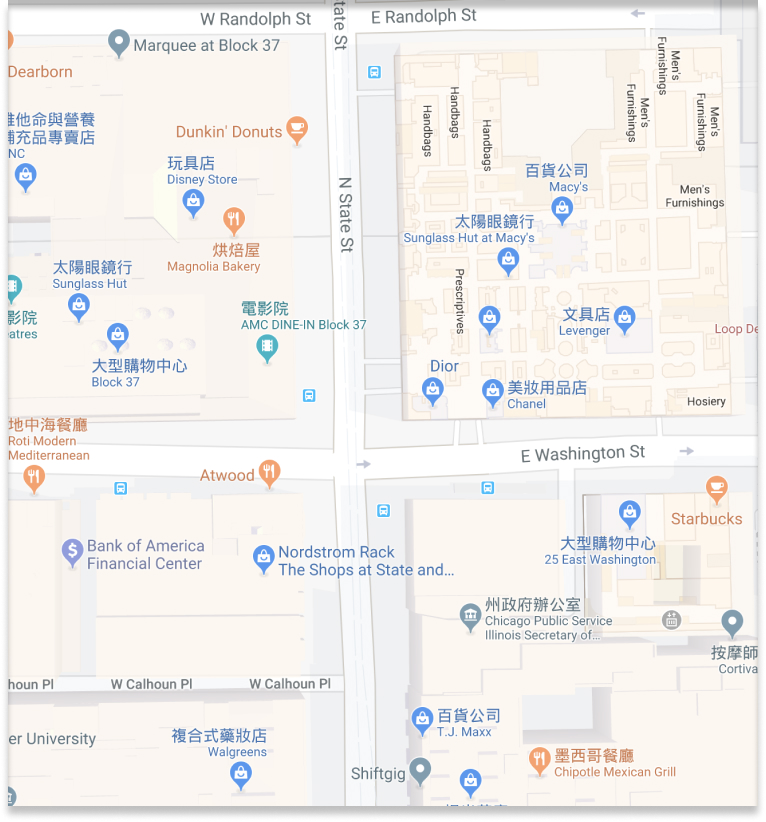
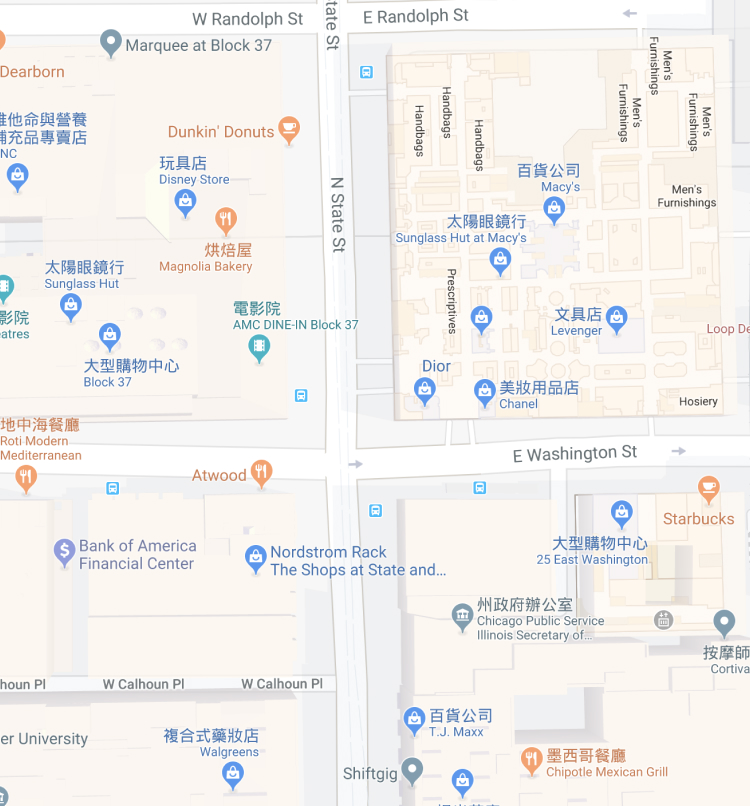
version1

diff --git a/index.html b/index.html
@@ -2,6 +2,7 @@
 <html lang="en" dir="ltr">
   <head>
     <meta charset="utf-8">
+    <meta name="viewport" content="width=device-width, initial-scale=1">
     <title>Frontend Challenge</title>
     <link rel="stylesheet" href="css/reset.css">
     <link rel="stylesheet" href="css/style.css">
@@ -12,56 +13,114 @@
       <header>
         <div class="statusbar"></div>
         <nav>
-          <ul>
-          <li class="leftarrow"><i class="fas fa-chevron-left"></i></li>
-          </ul>
+            <i class="fas fa-chevron-left"></i>
           <h1>Washington and State</h1>
         </nav>
       </header>
 
     <section class="map">
-      </section>
+    </section>
 
     <section class="buslist">
       <h2>Eastbound</h2>
 
       <ul class="row">
-        <li class="inline busnumber">60</li>
-        <li class="inline destination">
+        <li class="busnumber">60</li>
+        <li class="destination">
         <p class="block bold">Randolph/Harbor Dr</p>
         <p class="block frequency">Every 20 min</p>
         </li>
-        <li class="inline time">6 min</li>
-          <li class="inline icon">
+        <li class="time">6 min</li>
           <i class="fas fa-chevron-right"></i>
-          </li>
+      </ul>
 
-        <li class="inline busnumber">124</li>
-        <li class="inline destination">
+      <ul class="row">
+        <li class="busnumber">124</li>
+        <li class="destination">
         <p class="block bold">Navy Pier</p>
         <p class="block frequency">Every 10 min</p>
         </li>
-        <li class="inline time">8 min</li>
-          <li class="inline icon">
+        <li class="time">8 min</li>
           <i class="fas fa-chevron-right"></i>
-          </li>
-          <div class="line"></div>
       </ul>
 
-      <h2>Northbound</h2>
+      <h2 class="borderline">Northbound</h2>
 
       <ul class="row">
-        <li class="inline busnumber">151</li>
-        <li class="inline destination">
+        <li class="busnumber">151</li>
+        <li class="destination">
         <p class="block bold">Devon/Clark</p>
         <p class="block frequency">Every 16 min</p>
         </li>
-        <li class="inline time">9 min</li>
-          <li class="inline icon">
+        <li class="time">9 min</li>
           <i class="fas fa-chevron-right"></i>
-          </li>
       </ul>
 
+      <h2 class="borderline">Southbound</h2>
+
+      <ul class="row">
+        <li class="busnumber">J14</li>
+        <li class="destination">
+        <p class="block bold">103rd/Stony Island</p>
+        <p class="block frequency">Every 15 min</p>
+        </li>
+        <li class="time">8 min</li>
+          <i class="fas fa-chevron-right"></i>
+      </ul>
+
+      <ul class="row">
+        <li class="busnumber">124</li>
+        <li class="destination">
+        <p class="block bold">Navy Pier</p>
+        <p class="block frequency">Every 10 min</p>
+        </li>
+        <li class="time">8 min</li>
+          <i class="fas fa-chevron-right"></i>
+      </ul>
+
+      <h2 class="borderline">Reroute</h2>
+
+      <ul class="row">
+        <li class="busnumber">4X</li>
+        <li class="destination">
+        <p class="block bold">Jackson Park Express</p>
+        <p class="block frequency">N/A</p>
+        </li>
+        <li class="time">9 min</li>
+          <i class="fas fa-chevron-right"></i>
+      </ul>
+
+      <h2 class="borderline">Out of service</h2>
+
+      <ul class="row">
+        <li class="busnumber">4</li>
+        <li class="destination">
+        <p class="block bold">Cottage Grove</p>
+        <p class="block frequency">Resumes 12:10 am</p>
+        </li>
+        <li class="time">N/A</li>
+          <i class="fas fa-chevron-right"></i>
+      </ul>
+
+      <ul class="row">
+        <li class="busnumber">20</li>
+        <li class="destination">
+        <p class="block bold">Madison</p>
+        <p class="block frequency">Resumes 12:10 am</p>
+        </li>
+        <li class="time">N/A</li>
+          <i class="fas fa-chevron-right"></i>
+      </ul>
+
+      <ul class="row">
+        <li class="busnumber">157</li>
+        <li class="destination">
+        <p class="block bold">Streeterville/Taylor</p>
+        <p class="block frequency">Resumes 6:00 am</p>
+        </li>
+        <li class="time">N/A</li>
+          <i class="fas fa-chevron-right"></i>
+      </ul>
 
     </section>
     </section>

diff --git a/css/style.css b/css/style.css
@@ -15,14 +15,11 @@ body {
 }
 
 .statusbar {
-  background-image: url("../images/Base.jpg");
-  background-size: contain;
+  background-image: url("../images/statusbar.png");
+  background-size: cover;
+  position: center fixed;
   width: 100%;
-  height: 20px;
-}
-
-.inline {
-  display: inline-block;
+  height: 13px;
 }
 
 .block {
@@ -31,10 +28,16 @@ body {
 
 nav {
   background-color: green;
-  margin: 0 auto;
-  padding: 15px 0 15px 15px;
   position: center fixed;
   width: 100%;
+  height: 45px;
+}
+
+.fa-chevron-left {
+  padding: 15px 0 15px 15px;
+  color: white;
+  font-size: 1em;
+  float: left;
 }
 
 h1 {
@@ -42,57 +45,65 @@ h1 {
   color: white;
   font-size: 1.1em;
   text-align: center;
-}
-
-.leftarrow {
-  color: white;
-  font-size: 1.1em;
-  float: left;
+  padding: 15px 25px 0 0;
 }
 
 .map {
   background-image: url("../images/map.jpg");
-  background-size: contain;
+  background-size: cover;
+  display: block;
+  float: left;
+  box-shadow: 0 3px 4px lightgrey;
   width: 100%;
   height: 400px;
 }
 
 .buslist {
-  margin: 0 auto;
   width: 375px;
   background-color: white;
   padding: 2px;
 }
 
 .row {
-  padding: 10px;
+  padding: 0 3px;
   width: 100%;
+  height: 50px;
+  clear: both;
+}
+
+.row:hover {
+  background-color: lightgrey;
 }
 
 h2 {
   font-weight: bolder;
+  width: 100%;
   font-size: 1em;
-  text-align: left;
-  padding: 5px 10px;
+  float: left;
+  padding: 20px 0 5px 10px;
 }
 
 .busnumber {
   font-size: 1em;
-  font-weight: 500;
-  padding: 10px 0;
-  width: 15%;
+  font-weight: bold;
+  padding: 17px 10px 10px 17px;
   text-align: center;
+  width: 10%;
   float: left;
 }
 
 .destination {
   width: 60%;
-  padding: 5px 10px;
-  text-align: left;
+  padding: 7px 0 7px 25px;
+  float: left;
+}
+
+p {
+  margin: 2px 0;
 }
 
 .bold {
-  font-weight: bolder;
+  font-weight: 500;
   padding: 2px 0;
   font-size: 0.9em;
 }
@@ -101,24 +112,113 @@ h2 {
   font-weight: lighter;
   font-style: italic;
   font-size: 0.7em;
-  color: darkgrey;
+  color: grey;
 }
 
 .time {
   font-weight: bold;
-  padding: 5px 5px 5px 0;
+  padding: 17px 0 10px 30px;
   font-size: 0.9em;
+  width: 20%;
+  float: left;
+  color: green;
+  text-shadow: 2px 1px 1px lightgrey;
+}
+
+.fa-chevron-right {
+  padding: 19px 10px 10px 10px;
   width: 10%;
-  text-align: right;
-}
-
-.icon {
-  padding: 10px 0;
   font-size: 0.8em;
+  color: darkgreen;
   float: right;
+  text-shadow: 1px 1px 1px lightgrey;
 }
 
-.line {
-  padding: 5px 0;
-  border-bottom: 1px solid grey;
+.borderline {
+  width: 100%;
+  border-top: 1px solid lightgrey;
+}
+
+
+@media screen and (min-width: 575px) {
+
+.container {
+  width: 575px;
+}
+
+.statusbar {
+  width: 575px;
+  height: 21px;
+}
+
+nav {
+  width: 100%;
+  height: 60px;
+}
+
+.fa-chevron-left {
+  font-size: 130%;
+  padding: 20px 0 20px 20px;
+}
+
+h1 {
+  font-size: 130%;
+  padding: 20px 25px 0 0;
+}
+
+.map {
+  background-image: url("../images/map.jpg");
+  background-size: cover;
+  display: block;
+  float: left;
+  box-shadow: 0 3px 4px lightgrey;
+  width: 575px;
+  height: 600px;
+}
+
+.buslist {
+  width: 575px;
+  padding: 5px;
+}
+
+.row {
+  display: inline-block;
+  padding: 0 5px;
+  width: 46%;
+  margin: 1%;
+  height: 60px;
+}
+
+h2 {
+  font-size: 1.2em;
+  padding: 25px 0 7px 15px;
+}
+
+.busnumber {
+  font-size: 1em;
+  width: 5%;
+  padding: 22px 5px 10px 2px;
+}
+
+.destination {
+  width: 68%;
+  padding: 13px 10px 15px 30px;
+  float: left;
+}
+
+.time {
+  padding: 23px 0 10px 9px;
+  width: 21%;
+  font-size: 1em;
+}
+
+.fa-chevron-right {
+  padding: 24px 0 10px 3px;
+  width: 5%;
+  font-size: 0.9em;
+  }
+
+p {
+  margin: 3px 0;
+}
 }
